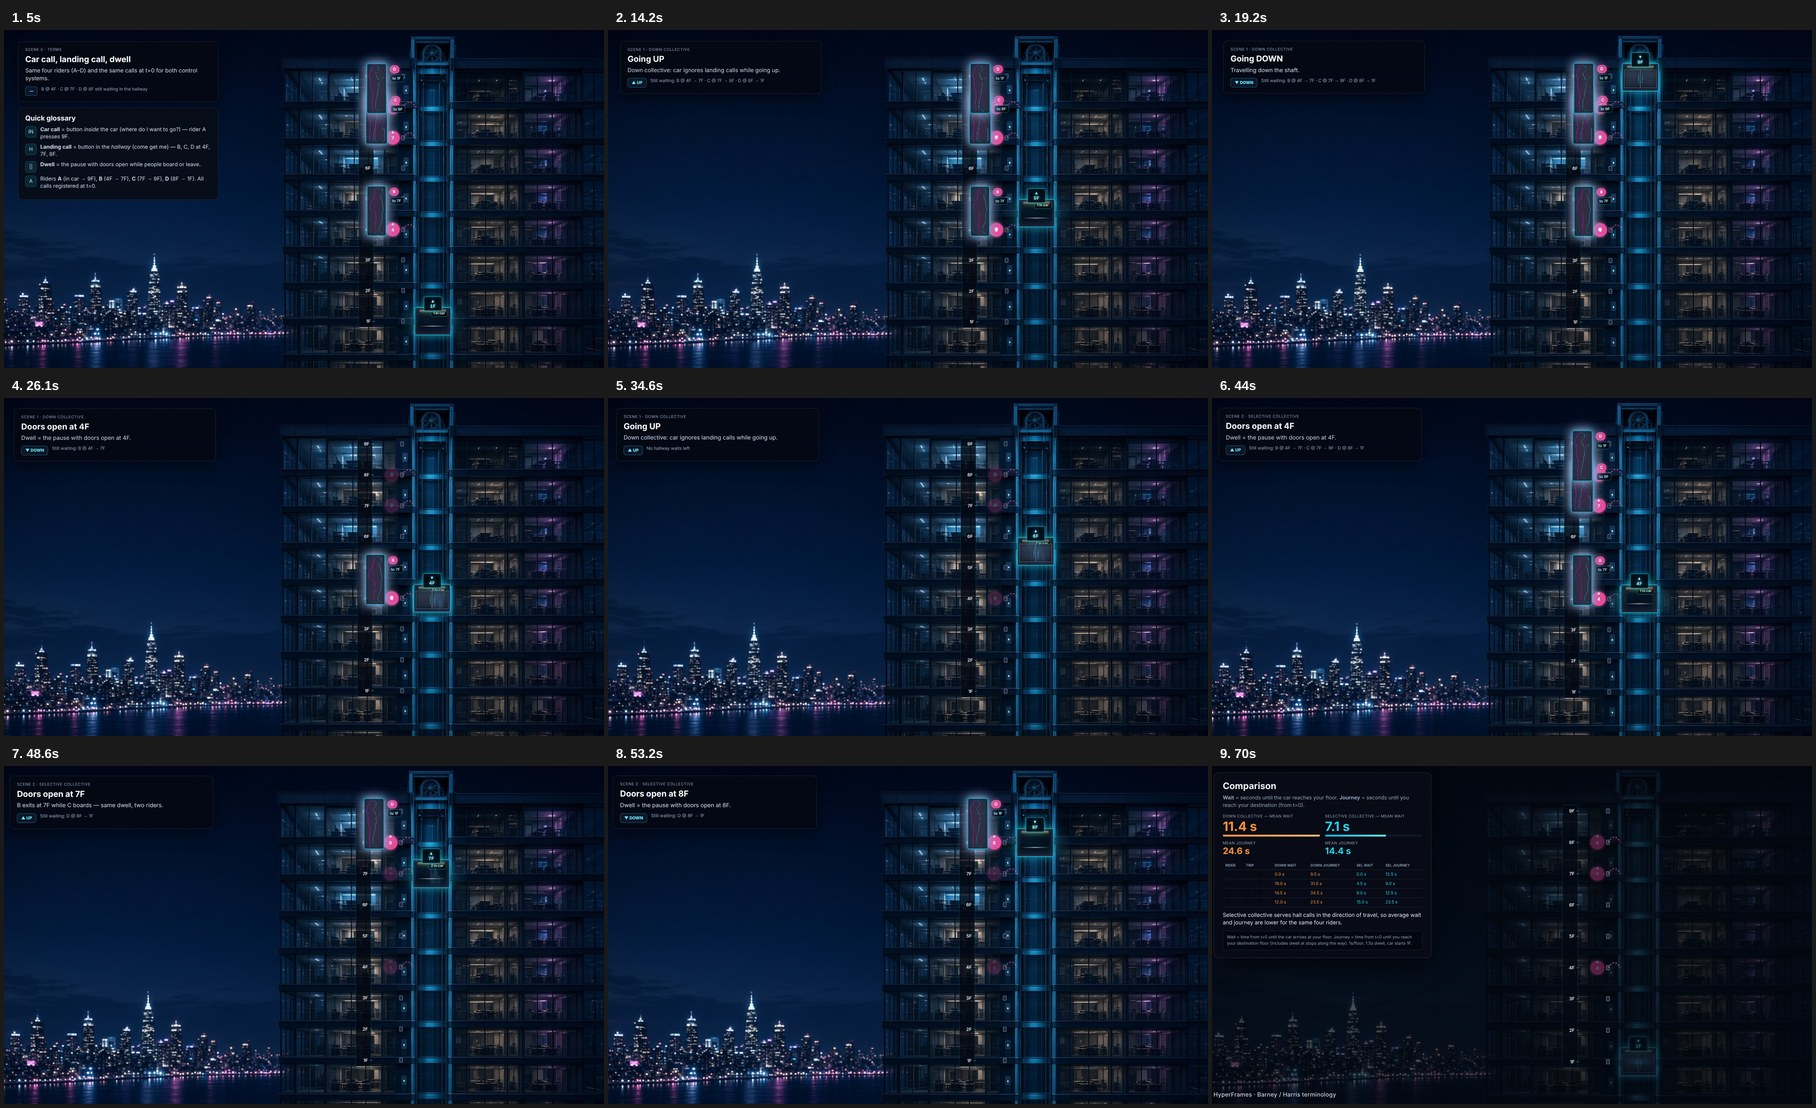
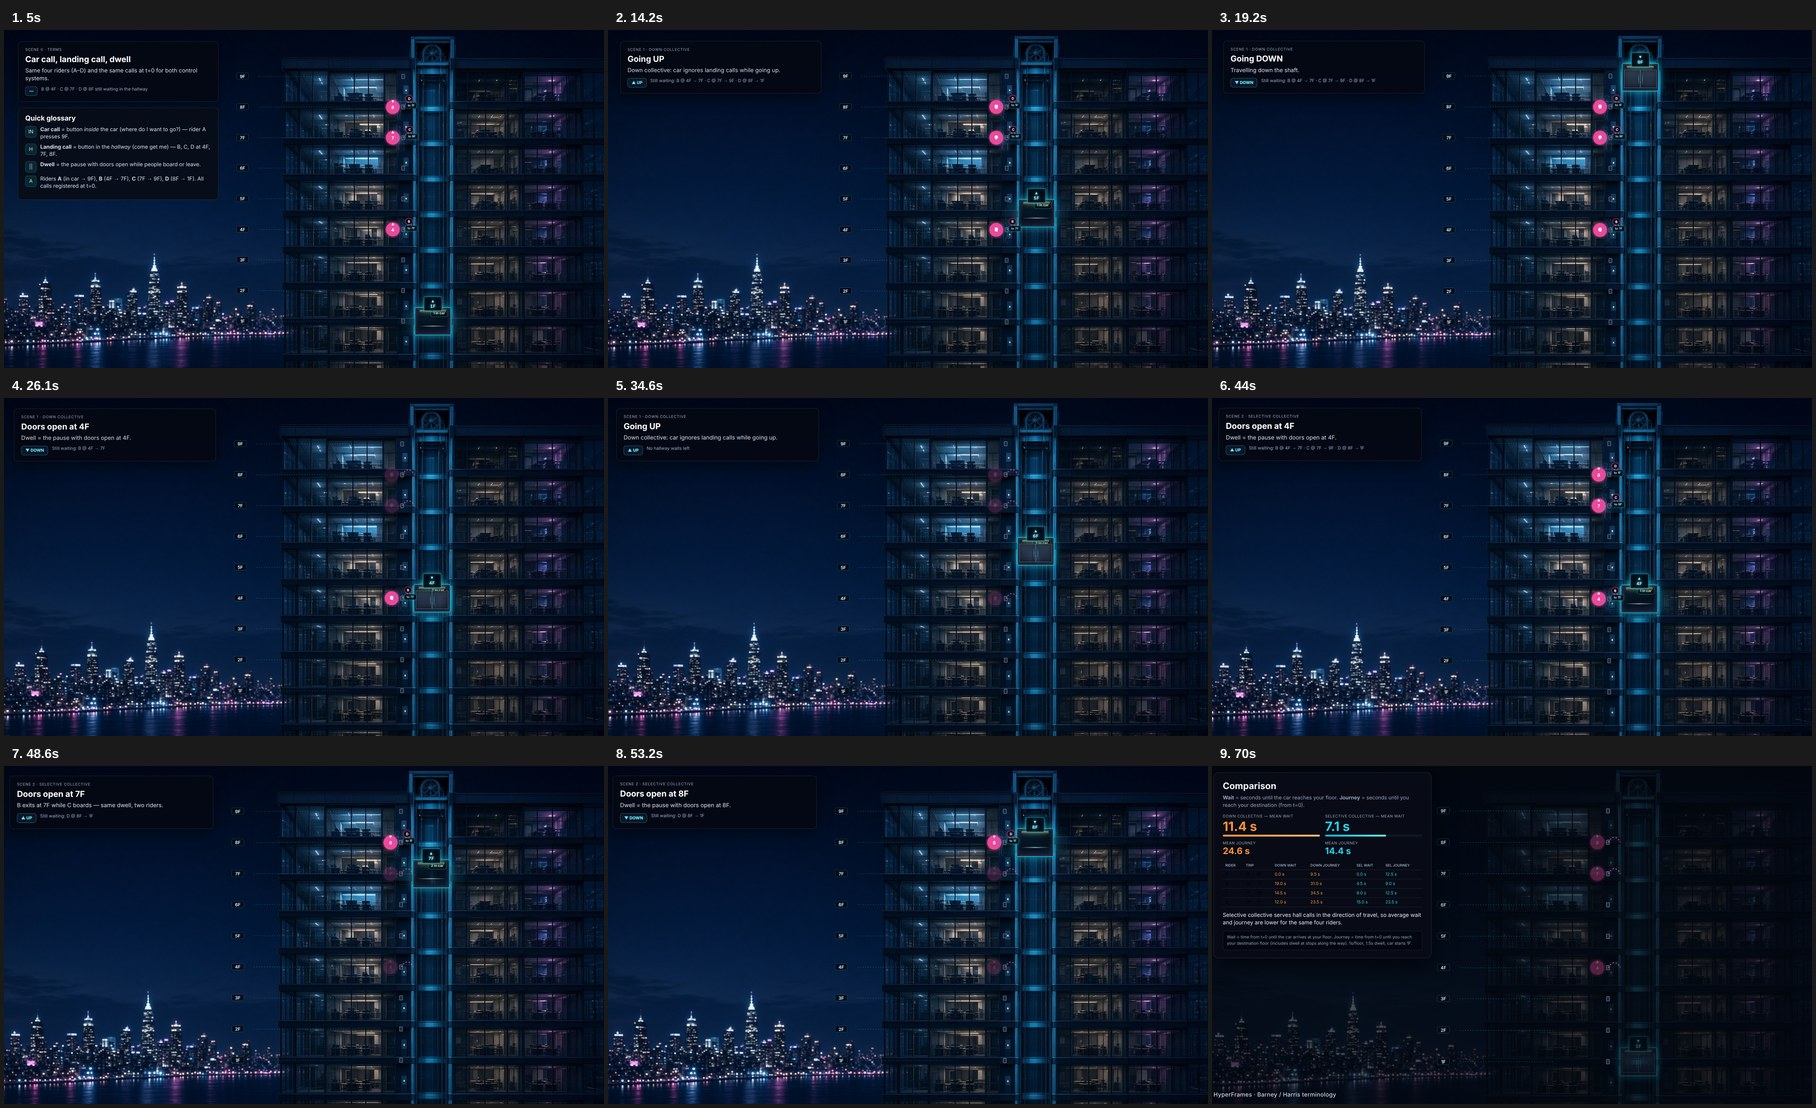
Fix rider scale/placement and move floor labels off facade

diff --git a/apps/elevator-selective-collective/composition/scene.js b/apps/elevator-selective-collective/composition/scene.js
@@ -1,6 +1,11 @@
 import {
   LAYOUT,
+  FLOOR_LABEL_X,
+  FACADE_TICK_X,
   floorCenterY,
+  floorBand,
+  landingSlabY,
+  landingRiderHeightPx,
   carTranslateY,
   carTranslateX,
   callToShaftPath,
@@ -16,7 +21,6 @@ import {
 } from './simulation.js'
 
 const CALL_FLOORS = [4, 7, 8]
-const GUTTER_X = 1188
 
 export const STORYBOARD = {
   totalDuration: 80,
@@ -26,13 +30,6 @@ export const STORYBOARD = {
   selectiveStart: 40,
   selectiveDuration: 22,
   statsStart: 62,
-}
-
-const RIDER_IMG = {
-  a: 'art/processed/passenger-1.png',
-  b: 'art/processed/passenger-2.png',
-  c: 'art/processed/passenger-3.png',
-  d: 'art/processed/passenger-4.png',
 }
 
 export function initComposition() {
@@ -156,10 +153,13 @@ export function initComposition() {
   }
 
   function positionLandingRider(el, floor) {
-    const x = LAYOUT.shaftLeft - 118
-    const y = floorCenterY(floor) + 8
-    el.style.left = `${x}px`
-    el.style.top = `${y}px`
+    const h = landingRiderHeightPx(floor)
+    const img = el.querySelector('img')
+    if (img) img.style.height = `${h}px`
+    el.dataset.floor = String(floor)
+    el.style.left = `${LAYOUT.landingX}px`
+    el.style.top = `${landingSlabY(floor)}px`
+    el.style.transform = 'translate(-58%, -100%)'
   }
 
   function updateCallBadges(waitingIds) {
@@ -311,6 +311,22 @@ export function initComposition() {
     return validateCabPlacement(floor)
   }
 
+  window.__validateRiders = () => {
+    applyPresentationTime(tl.time())
+    return validateVisibleLandingRiders()
+  }
+
+  window.__validateFrame = (floor) => {
+    applyPresentationTime(tl.time())
+    const cab = validateCabPlacement(floor)
+    const riders = validateVisibleLandingRiders()
+    const cabs = validateCabRiders()
+    if (!cab.ok) return cab
+    if (!riders.ok) return riders
+    if (!cabs.ok) return cabs
+    return { ok: true }
+  }
+
   tl.seek(0)
   applyPresentationTime(0)
 }
@@ -365,14 +381,60 @@ export function validateCabPlacement(floor) {
       error: `cab center x=${cx.toFixed(1)} outside shaft [${LAYOUT.shaftLeft}, ${LAYOUT.shaftRight}]`,
     }
   }
-  const fy = floorCenterY(floor)
-  if (fy < rect.top - 24 || fy > rect.bottom + 24) {
+  const band = floorBand(floor)
+  const cabCy = rect.top + rect.height / 2
+  if (cabCy < band.top - 8 || cabCy > band.bottom + 8) {
     return {
       ok: false,
-      error: `floor ${floor} y=${fy.toFixed(1)} outside cab vertical span [${rect.top.toFixed(1)}, ${rect.bottom.toFixed(1)}]`,
+      error: `floor ${floor} cab center y=${cabCy.toFixed(1)} outside band [${band.top.toFixed(1)}, ${band.bottom.toFixed(1)}]`,
     }
   }
-  return { ok: true, cx, fy, width: rect.width, height: rect.height }
+  return { ok: true, cx, fy: band.center, width: rect.width, height: rect.height }
+}
+
+export function validateVisibleLandingRiders() {
+  const errors = []
+  for (const el of document.querySelectorAll('.landing-rider')) {
+    const opacity = parseFloat(getComputedStyle(el).opacity)
+    if (!opacity || opacity < 0.05) continue
+    const floor = Number(el.dataset.floor)
+    if (!floor) continue
+    const band = floorBand(floor)
+    const fig = el.querySelector('.figure-wrap')
+    const rect = (fig ?? el).getBoundingClientRect()
+    const cy = rect.top + rect.height / 2
+    const maxH = band.pitch * 0.85 + 6
+    if (rect.height > maxH) {
+      errors.push(`rider @ ${floor}F height ${rect.height.toFixed(1)} > ${maxH.toFixed(1)}`)
+    }
+    if (cy < band.top - 2 || cy > band.bottom + 2) {
+      errors.push(`rider @ ${floor}F center y=${cy.toFixed(0)} outside band [${band.top.toFixed(0)}, ${band.bottom.toFixed(0)}]`)
+    }
+    if (rect.bottom > band.bottom + 4) {
+      errors.push(`rider @ ${floor}F feet below band (bottom=${rect.bottom.toFixed(0)} band=${band.bottom.toFixed(0)})`)
+    }
+  }
+  return errors.length ? { ok: false, error: errors.join('; ') } : { ok: true }
+}
+
+export function validateCabRiders() {
+  const car = document.getElementById('car')
+  const shell = car?.querySelector('.neon-cab-body')
+  if (!car || !shell) return { ok: true }
+  const shellRect = shell.getBoundingClientRect()
+  const errors = []
+  for (const el of document.querySelectorAll('.cab-rider')) {
+    const opacity = parseFloat(getComputedStyle(el).opacity)
+    if (!opacity || opacity < 0.05) continue
+    const rect = el.getBoundingClientRect()
+    if (rect.height > LAYOUT.cabRiderHeight + 6) {
+      errors.push(`cab rider too tall ${rect.height.toFixed(0)}`)
+    }
+    if (rect.bottom > shellRect.bottom + 2 || rect.top < shellRect.top - 2) {
+      errors.push('cab rider overflows cab glass')
+    }
+  }
+  return errors.length ? { ok: false, error: errors.join('; ') } : { ok: true }
 }
 
 function placeLandingRiders() {
@@ -380,30 +442,26 @@ function placeLandingRiders() {
     if (spec.origin === 1 && spec.startsInCar) continue
     const el = document.getElementById(`rider-${spec.id}-landing`)
     if (!el) continue
-    const x = LAYOUT.shaftLeft - 118
-    const y = floorCenterY(spec.origin)
-    el.style.left = `${x}px`
-    el.style.top = `${y}px`
+    const h = landingRiderHeightPx(spec.origin)
+    const img = el.querySelector('img')
+    if (img) img.style.height = `${h}px`
+    el.dataset.floor = String(spec.origin)
+    el.style.left = `${LAYOUT.landingX}px`
+    el.style.top = `${landingSlabY(spec.origin)}px`
+    el.style.transform = 'translate(-58%, -100%)'
+  }
+  for (const img of document.querySelectorAll('.cab-rider img')) {
+    img.style.height = `${LAYOUT.cabRiderHeight}px`
   }
 }
 
 function buildFloorGutter() {
   const g = document.getElementById('floor-gutter')
-  const top = floorCenterY(LAYOUT.floors) - 18
-  const bottom = floorCenterY(1) + 18
-  const rect = document.createElementNS('http://www.w3.org/2000/svg', 'rect')
-  rect.setAttribute('x', GUTTER_X - 52)
-  rect.setAttribute('y', top)
-  rect.setAttribute('width', 48)
-  rect.setAttribute('height', bottom - top)
-  rect.setAttribute('rx', 4)
-  rect.setAttribute('class', 'floor-gutter-bg')
-  g.appendChild(rect)
   for (let f = 1; f <= LAYOUT.floors; f++) {
     const cy = floorCenterY(f)
     const tick = document.createElementNS('http://www.w3.org/2000/svg', 'line')
-    tick.setAttribute('x1', GUTTER_X - 8)
-    tick.setAttribute('x2', GUTTER_X)
+    tick.setAttribute('x1', FLOOR_LABEL_X + 36)
+    tick.setAttribute('x2', FACADE_TICK_X)
     tick.setAttribute('y1', cy)
     tick.setAttribute('y2', cy)
     tick.setAttribute('class', 'floor-tick')
@@ -415,10 +473,18 @@ function buildFloorLabels() {
   const g = document.getElementById('floor-labels')
   for (let f = 1; f <= LAYOUT.floors; f++) {
     const cy = floorCenterY(f)
+    const pill = document.createElementNS('http://www.w3.org/2000/svg', 'rect')
+    pill.setAttribute('x', FLOOR_LABEL_X - 34)
+    pill.setAttribute('y', cy - 11)
+    pill.setAttribute('width', 38)
+    pill.setAttribute('height', 20)
+    pill.setAttribute('rx', 4)
+    pill.setAttribute('class', 'floor-label-pill')
+    g.appendChild(pill)
     const t = document.createElementNS('http://www.w3.org/2000/svg', 'text')
-    t.setAttribute('x', GUTTER_X - 14)
+    t.setAttribute('x', FLOOR_LABEL_X - 15)
     t.setAttribute('y', cy + 5)
-    t.setAttribute('text-anchor', 'end')
+    t.setAttribute('text-anchor', 'middle')
     t.setAttribute('class', 'floor-label')
     t.textContent = `${f}F`
     g.appendChild(t)

diff --git a/apps/elevator-selective-collective/composition/index.html b/apps/elevator-selective-collective/composition/index.html
@@ -42,8 +42,8 @@
         fill: #fff; font-size: 14px; font-weight: 700; text-anchor: middle;
         font-family: Inter, ui-sans-serif, system-ui, sans-serif;
       }
-      .floor-gutter-bg { fill: rgba(4, 8, 18, 0.82); stroke: rgba(34, 211, 238, 0.25); stroke-width: 1; }
-      .floor-tick { stroke: rgba(34, 211, 238, 0.55); stroke-width: 2; }
+      .floor-label-pill { fill: rgba(4, 8, 18, 0.78); stroke: rgba(34, 211, 238, 0.35); stroke-width: 1; }
+      .floor-tick { stroke: rgba(34, 211, 238, 0.45); stroke-width: 1.5; stroke-dasharray: 3 5; opacity: 0.85; }
       .floor-label {
         fill: #e2e8f0; font-size: 14px; font-weight: 600;
         font-family: Inter, ui-sans-serif, system-ui, sans-serif;
@@ -137,7 +137,7 @@
         opacity: 0;
         filter: drop-shadow(0 0 12px rgba(244, 114, 182, 0.9)) drop-shadow(0 0 4px #22d3ee);
       }
-      .cab-rider img { height: 78px; width: auto; display: block; opacity: 1; }
+      .cab-rider img { height: 38px; width: auto; display: block; opacity: 1; max-width: 36px; object-fit: contain; }
       #rider-count {
         position: absolute; top: 6%; right: 8%;
         padding: 4px 8px; border-radius: 6px;
@@ -149,44 +149,39 @@
       .landing-rider {
         position: absolute; z-index: 22;
         opacity: 0;
-        transform: translate(-50%, -92%);
         pointer-events: none;
       }
       .landing-rider .figure-wrap {
         position: relative;
-        filter: drop-shadow(0 0 18px rgba(244, 114, 182, 1)) drop-shadow(0 0 8px #22d3ee);
-        background: rgba(4, 8, 18, 0.72);
-        border-radius: 6px;
-        padding: 4px 6px 2px;
-        border: 2px solid rgba(34, 211, 238, 0.75);
+        filter: drop-shadow(0 0 10px rgba(244, 114, 182, 0.95)) drop-shadow(0 0 6px rgba(34, 211, 238, 0.85));
       }
       .landing-rider img {
-        height: 150px; width: auto; display: block; opacity: 1;
-        filter: contrast(1.45) saturate(1.3) brightness(1.12);
-        border-radius: 3px;
+        width: auto; display: block; opacity: 1;
+        filter: contrast(1.5) saturate(1.35) brightness(1.08);
       }
       .rider-chip {
-        position: absolute; left: calc(100% + 10px); top: 6px;
-        transform: none;
-        display: flex; flex-direction: column; align-items: flex-start; gap: 4px;
+        position: absolute; left: calc(100% + 4px); top: 0;
+        display: flex; flex-direction: column; align-items: flex-start; gap: 3px;
+        pointer-events: none;
       }
       #calls[data-mode="down-collective"] .call-dir { opacity: 0; }
       #calls[data-mode="down-collective"] .call-dot { opacity: 1; }
       #calls[data-mode="selective-collective"] .call-dir { opacity: 1; }
       #calls[data-mode="selective-collective"] .call-dot { opacity: 0; }
       .rider-name {
-        padding: 4px 10px; border-radius: 999px;
-        background: rgba(236, 72, 153, 0.95);
-        color: #fff; font-size: 13px; font-weight: 700;
-        border: 1px solid rgba(255,255,255,0.35);
-        box-shadow: 0 0 14px rgba(236, 72, 153, 0.65);
+        padding: 2px 7px; border-radius: 999px;
+        background: rgba(4, 8, 18, 0.88);
+        color: #fff; font-size: 11px; font-weight: 700;
+        border: 1px solid rgba(236, 72, 153, 0.85);
+        box-shadow: 0 0 10px rgba(236, 72, 153, 0.55);
       }
       .rider-dest {
-        padding: 3px 8px; border-radius: 6px;
-        background: rgba(2, 8, 18, 0.92);
-        color: #a5f3fc; font-size: 12px; font-weight: 600;
-        border: 1px solid rgba(34, 211, 238, 0.55);
+        padding: 2px 6px; border-radius: 5px;
+        background: rgba(4, 8, 18, 0.88);
+        color: #a5f3fc; font-size: 10px; font-weight: 600;
+        border: 1px solid rgba(34, 211, 238, 0.45);
         white-space: nowrap;
+        box-shadow: 0 0 8px rgba(34, 211, 238, 0.35);
       }
       .left-panel {
         position: absolute; left: 48px; top: 0; width: 720px; height: 100%;
@@ -335,15 +330,15 @@
           </div>
         </div>
 
-        <div class="landing-rider" id="rider-b-landing" data-floor="4">
+        <div class="landing-rider" id="rider-b-landing" data-floor="4" data-origin-floor="4">
           <div class="rider-chip"><span class="rider-name">B</span><span class="rider-dest">to 7F</span></div>
           <div class="figure-wrap"><img src="art/processed/passenger-2.png" alt="" /></div>
         </div>
-        <div class="landing-rider" id="rider-c-landing" data-floor="7">
+        <div class="landing-rider" id="rider-c-landing" data-floor="7" data-origin-floor="7">
           <div class="rider-chip"><span class="rider-name">C</span><span class="rider-dest">to 9F</span></div>
           <div class="figure-wrap"><img src="art/processed/passenger-3.png" alt="" /></div>
         </div>
-        <div class="landing-rider" id="rider-d-landing" data-floor="8">
+        <div class="landing-rider" id="rider-d-landing" data-floor="8" data-origin-floor="8">
           <div class="rider-chip"><span class="rider-name">D</span><span class="rider-dest">to 1F</span></div>
           <div class="figure-wrap"><img src="art/processed/passenger-4.png" alt="" /></div>
         </div>

diff --git a/apps/elevator-selective-collective/composition/layout.js b/apps/elevator-selective-collective/composition/layout.js
@@ -16,6 +16,11 @@ for (let i = 0; i < MEASURED_FLOOR_Y.length - 1; i++) {
 }
 const medianPitch = pitches.sort((a, b) => a - b)[Math.floor(pitches.length / 2)]
 
+/** Left of facade over sky (under ~460px at 1024-wide preview). */
+export const FLOOR_LABEL_X = 780
+/** Where horizontal ticks meet the building face. */
+export const FACADE_TICK_X = 1108
+
 export const LAYOUT = {
   floors: MEASURED_FLOOR_Y.length,
   viewW: 1920,
@@ -31,6 +36,10 @@ export const LAYOUT = {
   labelX: MEASURED_LABEL_X,
   carWidth: Math.round(MEASURED_SHAFT.width * 0.94),
   carHeight: Math.round(medianPitch * 0.92),
+  medianPitch,
+  landingRiderMaxHeight: Math.round(medianPitch * 0.85),
+  cabRiderHeight: Math.round(medianPitch * 0.38),
+  landingX: MEASURED_HALL_X - 8,
   frontTop: MEASURED_FLOOR_Y[MEASURED_FLOOR_Y.length - 1],
   frontBottom: MEASURED_FLOOR_Y[0],
 }
@@ -61,6 +70,27 @@ export function callToShaftPath(floor) {
   const x1 = LAYOUT.shaftLeft + 6
   const cx = (x0 + x1) / 2
   return `M ${x0} ${y} Q ${cx} ${y - 32} ${x1} ${y}`
+}
+
+/** @returns {{ top: number, bottom: number, center: number, pitch: number }} */
+export function floorBand(floor) {
+  const f = Math.max(1, Math.min(LAYOUT.floors, Math.round(floor)))
+  const center = floorCenterY(f)
+  const above =
+    f < LAYOUT.floors ? (floorCenterY(f) - floorCenterY(f + 1)) / 2 : (MEASURED_FLOOR_Y[f - 2] - MEASURED_FLOOR_Y[f - 1]) / 2
+  const below =
+    f > 1 ? (floorCenterY(f - 1) - floorCenterY(f)) / 2 : (MEASURED_FLOOR_Y[0] - MEASURED_FLOOR_Y[1]) / 2
+  const pitch = above + below
+  return { top: center - above, bottom: center + below, center, pitch }
+}
+
+export function landingSlabY(floor) {
+  const band = floorBand(floor)
+  return band.bottom - band.pitch * 0.06
+}
+
+export function landingRiderHeightPx(floor) {
+  return Math.floor(floorBand(floor).pitch * 0.82)
 }
 
 export function assertFloorAlignment(placements) {
